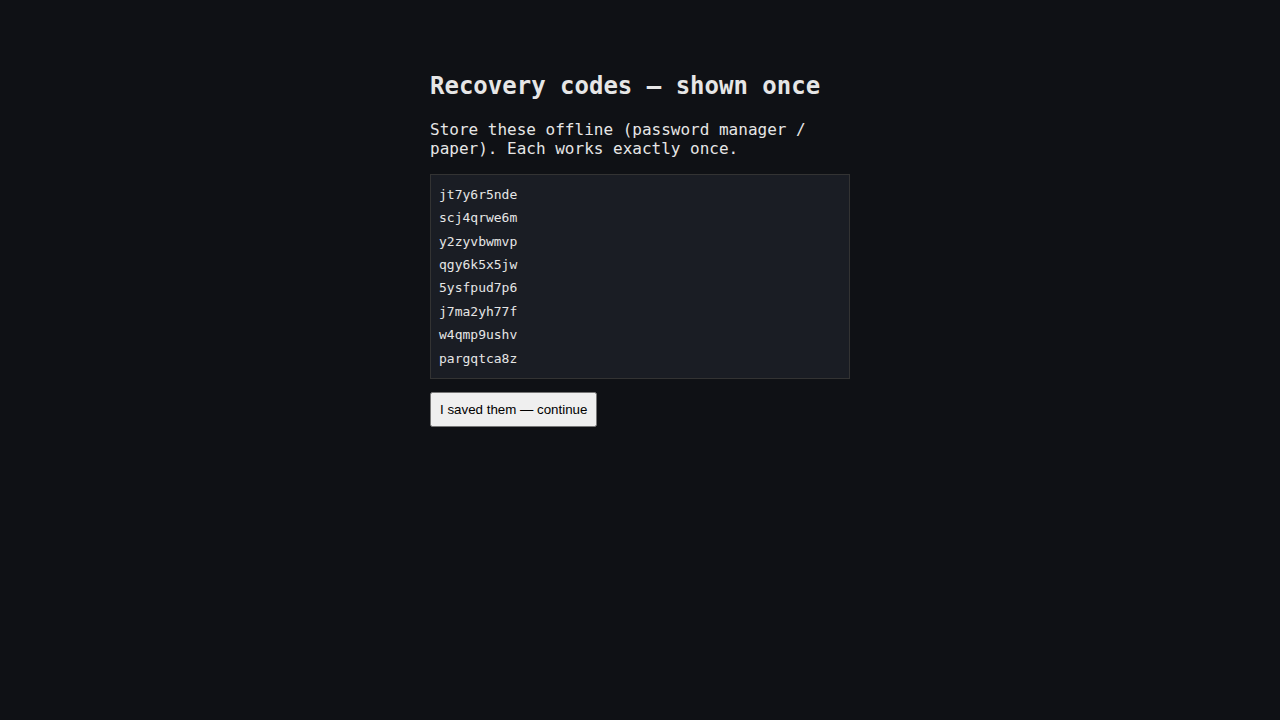
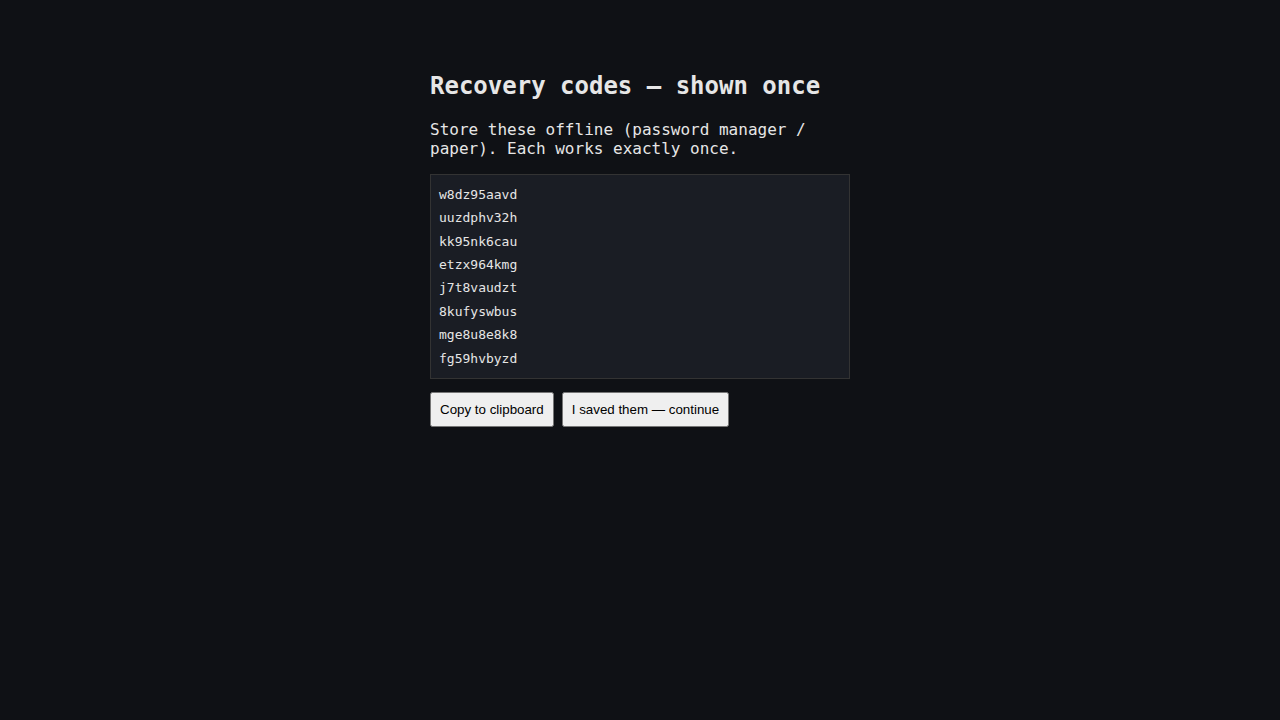
Exit demo re-recorded against round-1-fixed code (CSRF-protected login + 2FA gate exercised live)

Changed region(s): [[0.3438, 0.2444, 0.4062, 0.5194], [0.3438, 0.5194, 0.5938, 0.6111]]

diff --git a/scripts_dev/ws_reconnect_demo.py b/scripts_dev/ws_reconnect_demo.py
@@ -98,6 +98,8 @@ with sync_playwright() as p:
     page.wait_for_selector("text=Signed in as")
 
     # -- 3. Re-login WITH TOTP (proves the second factor is now enforced).
+    # Session hydration keeps a reload signed in, so simulate a new browser:
+    page.context.clear_cookies()
     page.reload()
     page.get_by_placeholder("username").fill(USERNAME)
     page.get_by_placeholder("password").fill(PASSWORD)

diff --git a/conformance/demos/phase-0.md b/conformance/demos/phase-0.md
@@ -1,7 +1,8 @@
 # Phase 0 exit demo — recorded (P0-WS-DEMO)
 
-**Date:** 2026-08-03 · **Commit under test:** `80af3d2` (+ the two live fixes below,
-committed immediately after) · **Recorded by:** Cowork session — automated Playwright
+**Date:** 2026-08-03 · **Commit under test:** `fc708fa` (round-1 fixes included; the
+walkthrough now also exercises the CSRF-protected login via the /me bootstrap and the
+server-side 2FA gate) · **Recorded by:** Cowork session — automated Playwright
 walkthrough, driver checked in at `scripts_dev/ws_reconnect_demo.py`, re-runnable.
 
 ## Environment
@@ -28,19 +29,19 @@ this environment); the compose file only changes *where* these same services run
 ## Transcript (driver output, verbatim)
 
 ```
-[19:41:33] open http://127.0.0.1:5173 — fresh user 'demo-operator', no TOTP device
-[19:41:35] logged in with password; UI forces TOTP enrollment (§6.10 mandatory-2FA)
-[19:41:35] TOTP enrolled via UI; 8 recovery codes shown once
-[19:41:36] re-login without TOTP rejected (second factor enforced)
-[19:41:36] waiting 24s for the next TOTP window (replay protection)
-[19:42:01] re-logged in with password + TOTP; demo panel open; socket live
-[19:42:01] form error blocks client-side via generated zod mirror (§4.5)
-[19:42:01] server warning (slow_demo) rendered with 409 + confirm flow
-[19:42:02] streaming: 2 lines rendered, killing socket now
-[19:42:03] socket killed: status=reconnecting; worker keeps publishing meanwhile
-[19:42:04] socket reconnected (1.5s backoff): snapshot refetched, stream resumed
-[19:42:10] recovered panel shows all 9 lines exactly once — no gap, no duplicates
-[19:42:10] PASS: full Phase 0 exit walkthrough
+[20:06:57] open http://127.0.0.1:5173 — fresh user 'demo-operator', no TOTP device
+[20:06:58] logged in with password; UI forces TOTP enrollment (§6.10 mandatory-2FA)
+[20:06:59] TOTP enrolled via UI; 8 recovery codes shown once
+[20:07:00] re-login without TOTP rejected (second factor enforced)
+[20:07:00] waiting 30s for the next TOTP window (replay protection)
+[20:07:31] re-logged in with password + TOTP; demo panel open; socket live
+[20:07:32] form error blocks client-side via generated zod mirror (§4.5)
+[20:07:32] server warning (slow_demo) rendered with 409 + confirm flow
+[20:07:33] streaming: 2 lines rendered, killing socket now
+[20:07:33] socket killed: status=reconnecting; worker keeps publishing meanwhile
+[20:07:35] socket reconnected (1.5s backoff): snapshot refetched, stream resumed
+[20:07:40] recovered panel shows all 9 lines exactly once — no gap, no duplicates
+[20:07:40] PASS: full Phase 0 exit walkthrough
 ```
 
 Screenshots (in `phase-0/`): `01-login` · `02-enroll-qr` (otpauth + QR) ·
